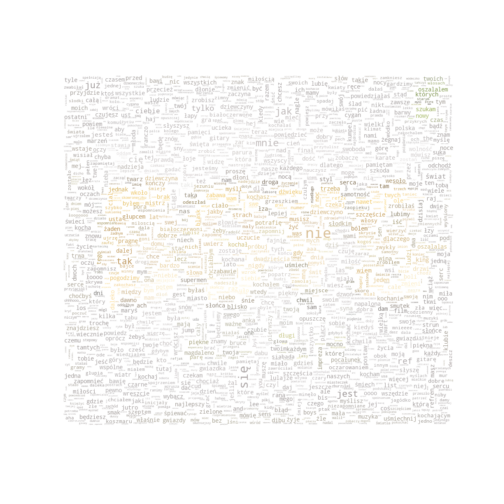
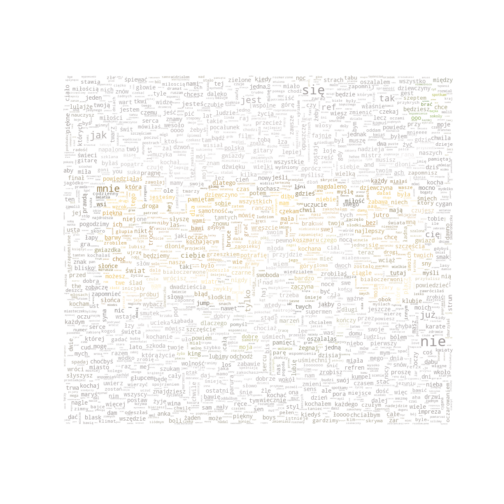
yes

Changed region(s): [[0.119, 0.1488, 0.8929, 0.8631]]

diff --git a/chmurkowanko.py b/chmurkowanko.py
@@ -68,10 +68,11 @@ def chmury_z_grafik(wejscie_slownik, art, x=3):
 		if len(str(i)) >= x:
 			slownik_do_chmury[ str(i) ] = float( wejscie_slownik[i] )
 	
-	mask = np.array(Image.open("Chmury\\Grafiki_do_chmur\\"+art+".jpg"))
-	chmurka = WordCloud( background_color="white", mode="RGBA", max_words=3000, mask=mask, max_font_size=35).generate_from_frequencies(slownik_do_chmury)
+	mask = np.array(Image.open('Chmury\\Grafiki_do_chmur\\'+art+'.jpg'))
+	chmurka = WordCloud( background_color="white", mode="RGBA", max_words=3000, mask=mask, max_font_size=40, width=1600, height=800).generate_from_frequencies(slownik_do_chmury)
 	image_colors = ImageColorGenerator(mask)
-	plt.figure(figsize=[5,5])
+	plt.figure( figsize=(20,20) )
+	plt.imshow(wordcloud)
 	plt.imshow(chmurka.recolor(color_func=image_colors), interpolation="bilinear")
 	plt.axis("off")
-	plt.savefig("Chmury\\Grafochmurki\\"+art+".png", format="png")
+	plt.savefig('Chmury\\Grafochmurki\\'+art+'.png', format='png')

diff --git a/Franek_main.py b/Franek_main.py
@@ -37,3 +37,6 @@ def chmury_dla_wszystkich_nie_rob_plox():
     return
 
 przetwarzanko.czytaj_10(przetwarzanko.wczytywanko("Dane.txt"))
+
+for artysta in [x for x in os.listdir('Dane') if os.path.isdir('Dane\\'+x)]:
+    chmurkowanko.chmury_z_grafik(przetwarzanko.wczytywanko('Dane\\'+artysta+'.txt'),artysta)
